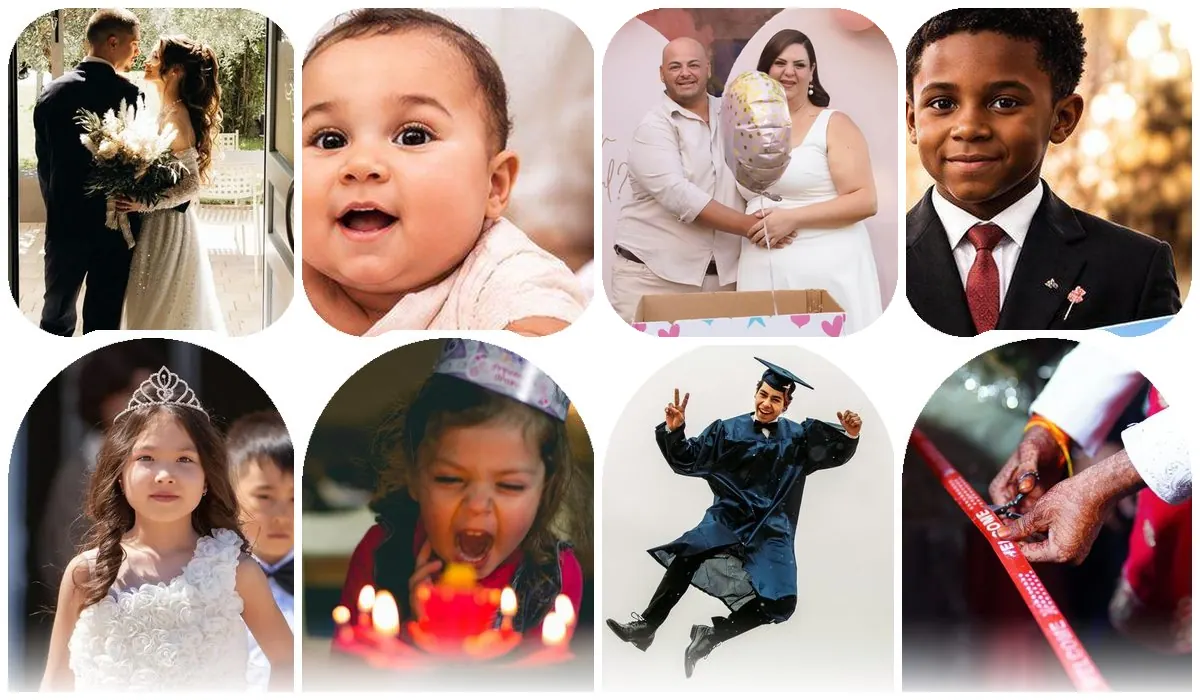
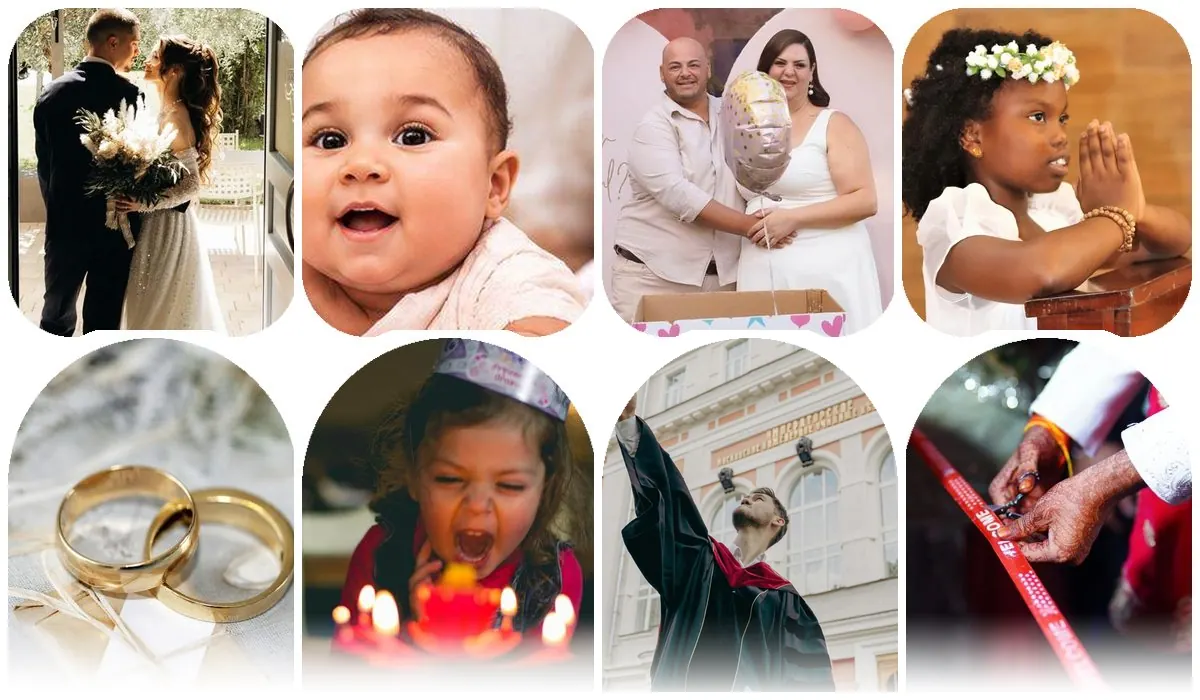
Page d'accueil : communiante en prière, alliances et diplômé lançant sa toque dans le collage (et pour les événements démo)
Claude-Session: https://claude.ai/code/session_01DZD1fyPbKcUBTkn1qnKi7H

diff --git a/lib/demo.js b/lib/demo.js
@@ -18,14 +18,14 @@ const pick = (list, i) => list[i % list.length];
 const img = (...names) => names.map((n) => `/img/demo/${n}.jpg`);
 // Chaque photo existe en plusieurs variantes (miroir, recadrage, tons) : « nom », « nom-2 », « nom-3 »…
 const variants = (name, n) => [name, ...Array.from({ length: n - 1 }, (_, i) => `${name}-${i + 2}`)];
-const WEDDING = img("mariage-porte", ...variants("live-mariage", 5), ...variants("mariage", 4));
+const WEDDING = img("mariage-porte", "alliances", ...variants("live-mariage", 5), ...variants("mariage", 4));
 const BABY = img(...variants("bebe", 4));
 const KIDS = img(...variants("enfants", 4));
 const PARTY = img("anniversaire-bougies", "anniversaire-f", ...variants("anniversaire", 4), ...variants("enfants", 4));
 const COVERS = {
   mariage: WEDDING, fiancailles: [...WEDDING].reverse(),
-  bapteme: BABY, "baby-shower": [...img("baby-shower-f"), ...BABY, ...KIDS], inauguration: img("inauguration-f"), communion: img("communion-f", ...variants("costume", 4)),
-  anniversaire: PARTY, diplome: img("diplome-saut", "diplome-f", ...variants("diplome", 4)), autre: [...WEDDING, ...PARTY],
+  bapteme: BABY, "baby-shower": [...img("baby-shower-f"), ...BABY, ...KIDS], inauguration: img("inauguration-f"), communion: img("communion-priere", "communion-f", ...variants("costume", 4)),
+  anniversaire: PARTY, diplome: img("diplome-lancer", "diplome-saut", "diplome-f", ...variants("diplome", 4)), autre: [...WEDDING, ...PARTY],
 };
 export const coverFor = (type, i) => pick(COVERS[type] || PARTY, i);
 const TYPES = {
@@ -101,14 +101,14 @@ let varied = false;
 export async function varyDemoCovers() {
   if (varied) return false;
   varied = true;
-  if ((await getSetting("demoCovers")) >= 7) return false;
+  if ((await getSetting("demoCovers")) >= 8) return false;
   const list = await demoEvents();
   const seen = {};
   await Promise.all(list.map((e) => {
     const i = seen[e.type] = (seen[e.type] ?? -1) + 1;
     return e.cover?.startsWith("/img/demo/") ? saveEvent({ ...e, cover: coverFor(e.type, i) }) : null;
   }));
-  await setSetting("demoCovers", 7);
+  await setSetting("demoCovers", 8);
   return true;
 }
 

diff --git a/public/index.html b/public/index.html
@@ -9,7 +9,7 @@
   <link rel="modulepreload" href="/js/common.js">
   <link rel="modulepreload" href="/js/icons.js">
   <link rel="modulepreload" href="/js/i18n.js">
-  <link rel="preload" as="image" href="/img/maquette/collage.webp?v=18" type="image/webp">
+  <link rel="preload" as="image" href="/img/maquette/collage.webp?v=19" type="image/webp">
   <link rel="stylesheet" href="/css/app.css?v=82">
   <link rel="icon" href="/img/logo.png" type="image/png">
   <link rel="manifest" href="/manifest.webmanifest">
@@ -27,7 +27,7 @@
 </head>
 <body>
   <main class="container home" style="max-width:480px">
-    <picture><source srcset="/img/maquette/collage.webp?v=18" type="image/webp"><img class="hero-collage" src="/img/maquette/collage.jpg?v=18" alt="Mariage, baptême, anniversaire, remise de diplôme : tous vos moments" fetchpriority="high" width="1200" height="700"></picture>
+    <picture><source srcset="/img/maquette/collage.webp?v=19" type="image/webp"><img class="hero-collage" src="/img/maquette/collage.jpg?v=19" alt="Mariage, baptême, anniversaire, remise de diplôme : tous vos moments" fetchpriority="high" width="1200" height="700"></picture>
 
     <p style="text-align:center;margin:0">
       <span class="logo logo-lg"><img src="/img/logo.png" alt=""><span>MaFel<b>i</b>za</span></span>
